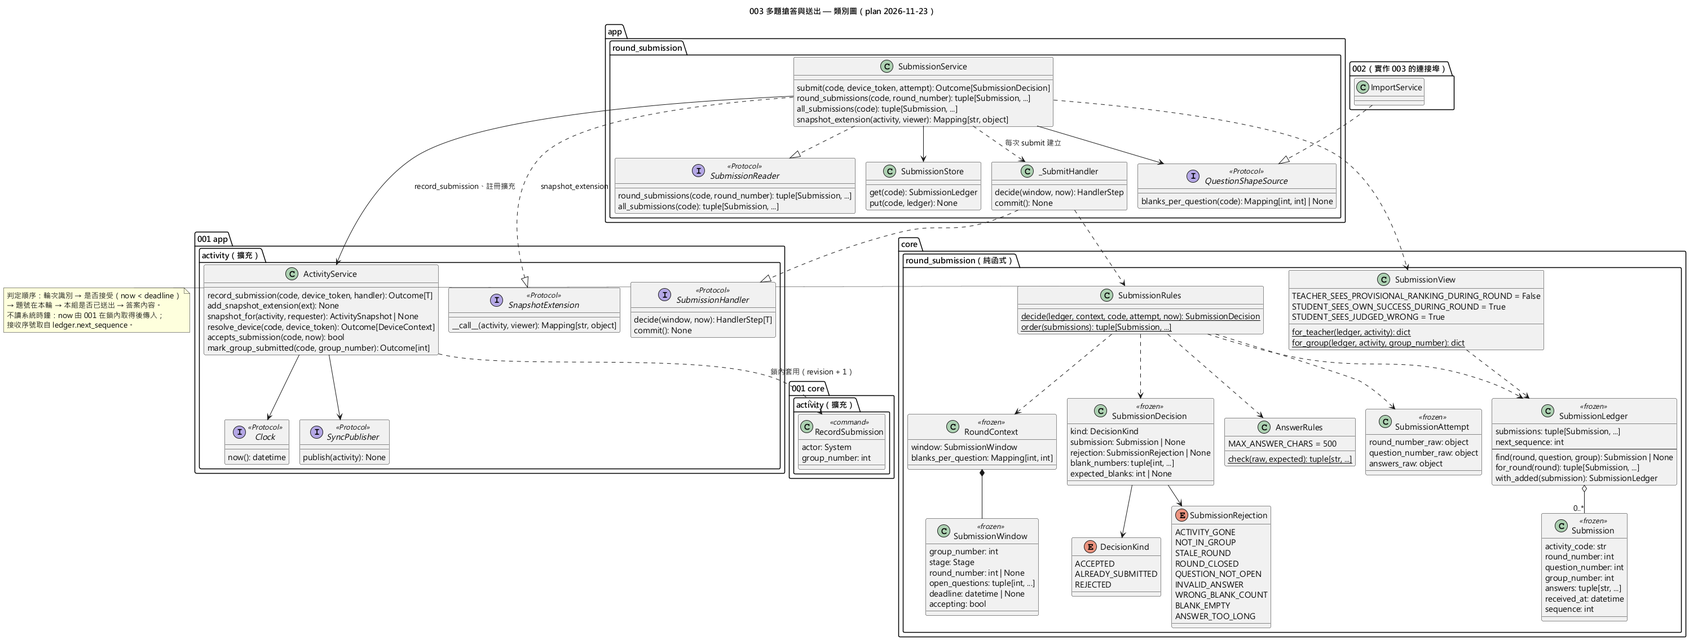
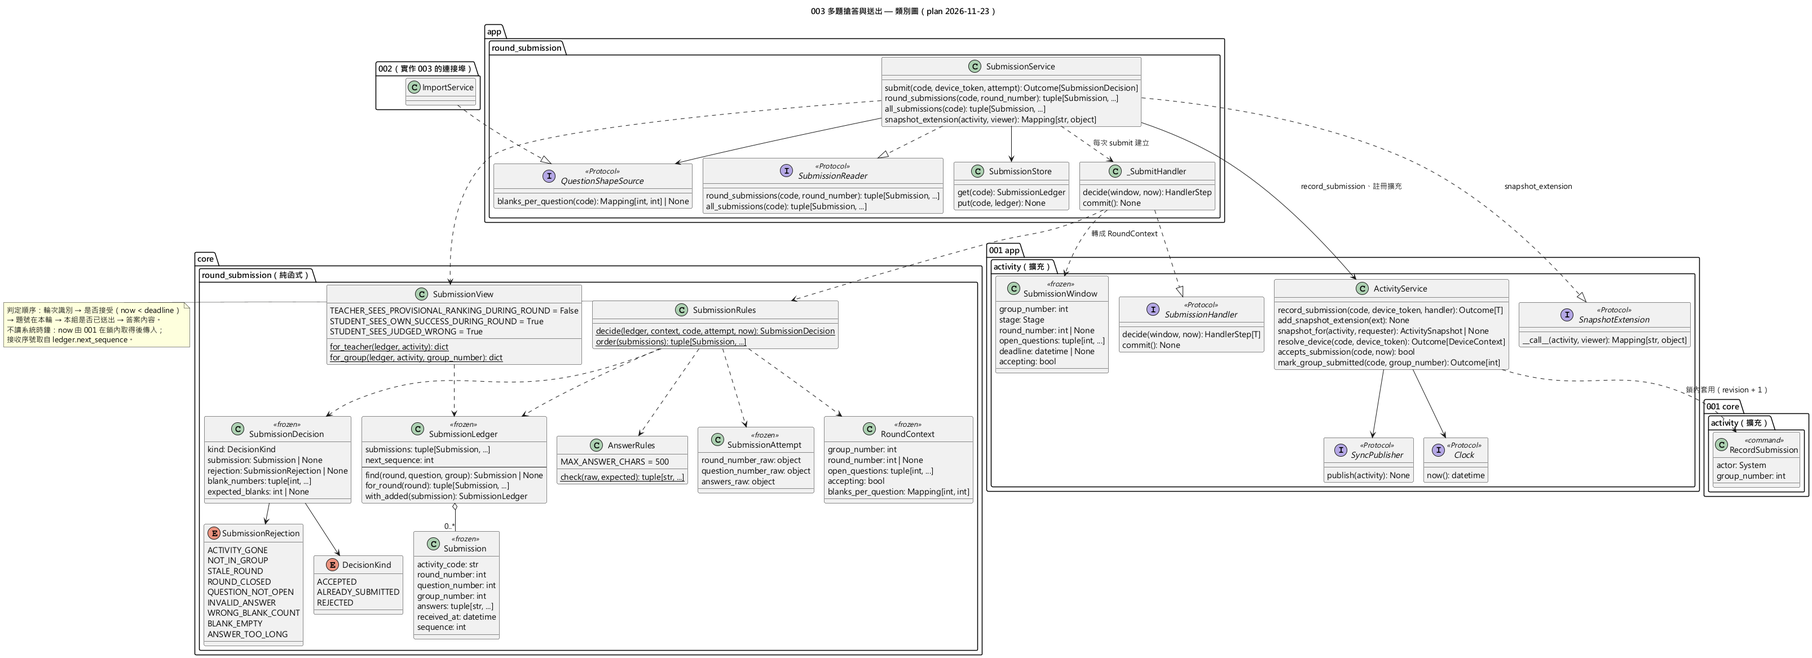
docs: 003 tasks（66 項），並把 SubmissionWindow 移到 001 ports、提交本文改為忽略多餘欄位

diff --git a/specs/003-round-submission/tasks.md b/specs/003-round-submission/tasks.md
@@ -1,0 +1,306 @@
+---
+
+description: "003-round-submission 任務清單"
+---
+
+# Tasks: 多題搶答與送出
+
+**Input**: Design documents from `/specs/003-round-submission/`
+
+**Prerequisites**: [plan.md](plan.md)、[spec.md](spec.md)、[research.md](research.md)、[data-model.md](data-model.md)、[contracts/](contracts/)、[quickstart.md](quickstart.md)
+
+**Tests**: REQUIRED（憲章原則 VI）。每個 Acceptance Scenario 與對應的 OpenSpec Scenario 至少一個自動化測試；測試函式 docstring 第一行寫 `Scenario: USn-ASm`（與 001 相同慣例，供 `tests/SCENARIO_MAP.md` 掃描）。**先寫測試、執行並確認失敗，再實作**。003 不呼叫 Google。
+
+**Diagrams**: REQUIRED（憲章原則 II）。`diagrams/003-round-submission-{component,class,sequence}.puml` 與 PNG 已存在（plan 2026-11-23 版）；Polish 有一致性驗證任務。
+
+**Architecture**: REQUIRED（NON-NEGOTIABLE）。`src/lecture_quiz/core/round_submission/` 只匯入標準函式庫與 `lecture_quiz.core`，不讀時鐘；`now` 由 001 在鎖內取得後傳入，接收序號取自 `SubmissionLedger.next_sequence`。
+
+**慣例**：路徑以 repo 根目錄為準；`<core>` = `src/lecture_quiz/core/round_submission`，`<app>` = `src/lecture_quiz/app/round_submission`，`<web>` = `src/lecture_quiz/adapters/web`，`<static>` = `src/lecture_quiz/adapters/static`。每個公開類別、函式、方法都要有型別提示與 Google docstring。日誌只用 `logging`，不記 token 與答案內容。
+
+## Format: `[ID] [P?] [Story] Description`
+
+- **[P]**: 可平行（不同檔案、沒有未完成的相依）
+- **[Story]**: 所屬 User Story（US1～US6）
+
+---
+
+## Phase 1: Setup
+
+**Purpose**: 建立目錄、確認基準
+
+- [ ] T001 建立套件目錄與空的 `__init__.py`（含模組 docstring）：`<core>/__init__.py`、`<app>/__init__.py`、`tests/unit/core/round_submission/__init__.py`、`tests/unit/app/round_submission/__init__.py`
+- [ ] T002 記錄基準：在目前分支執行 `ruff check .`、`ruff format --check .`、`mypy`、`pytest`，把通過數（預期 001 合併後為 389 passed、1 deselected）寫入 `specs/003-round-submission/verification.md` 的「基準」段落，作為 Foundational 之後「001 既有測試全過」的比對依據
+- [ ] T003 [P] 在 `tests/unit/core/round_submission/helpers.py` 建立測試資料：`LAYOUT_A = {1: 2, 2: 2, 3: 1, 4: 1}`（課程範本：4 題、前兩題各兩格）、`LAYOUT_B = {1: 1, 2: 3, 3: 1, 4: 2, 5: 1}`（另一份版面：5 題、含三格題組），以及 `make_context(...)`、`make_attempt(...)`、`make_submission(...)` 工廠函式（憲章原則 III 的兩份版面）
+- [ ] T004 [P] 在 `tests/conftest.py` 新增 003 共用工具：`FakeQuestionShapeSource`（可設定每個活動代碼的格數）、`submit(client, code, device_token, round_number, question_number, answers)` 呼叫 `POST /api/activities/{code}/submissions`、`seed_questions` 增加可選參數 `blanks: list[int] | None`；在模組 docstring 的 fixture 清單補上這些項目
+
+---
+
+## Phase 2: Foundational（001 擴充、核心資料結構、組裝）
+
+**Purpose**: 研究 R1、R2、R4、R6 的基礎；完成前不能開始任何 User Story
+
+**⚠ CRITICAL**: 本階段改到已合併的 001，完成後 001 既有測試必須全部通過且不需修改
+
+### 測試（先寫、確認失敗）
+
+- [ ] T005 [P] 在 `tests/unit/core/test_state_machine_record_submission.py` 測試 001 新指令 `RecordSubmission`（與 `MarkGroupSubmitted` 相同，不檢查 actor：只由服務層以 `System()` 送出，沒有 HTTP 入口）：只在 `ROUND_OPEN` 成功，其他 6 個階段回 `STAGE_NOT_ALLOWED`；有截止時間時 `now < deadline` 成功、`now == deadline` 與之後拒絕（`STAGE_NOT_ALLOWED`），沒有截止時間時成功；組別不存在回 `GROUP_NOT_FOUND`；成功時 `has_submissions = True`，**每次都 `changed`**：第二次對同組套用 `revision` 仍加 1，`version` 與 `changed_at` 都不變（研究 R2、R5）
+- [ ] T006 [P] 在 `tests/unit/app/test_record_submission.py` 測試 `ActivityService.record_submission(code, device_token, handler)`：活動不存在回 `ACTIVITY_GONE`、token 無效回 `NOT_IN_GROUP`，兩者都不呼叫 `handler.decide`；`clock.now()` 只呼叫一次，且同一個值傳給 `decide`；`SubmissionWindow.accepting` 在搶答中且 `now < deadline`（或無截止）時為真、其他情況為假；`decide` 回 `accept` → 先套用 `RecordSubmission` 再呼叫 `commit`，`commit` 被呼叫時活動鎖仍被持有（仿 `tests/unit/app/test_idempotency_inside_lock.py` 的 LockCheckingRegistry），鎖釋放後 `publish` 恰好一次；`no_change`／`reject` → 不呼叫 `commit`、不推送、`revision` 不變；`RecordSubmission` 被拒（例如 FakeClock 讓截止時間在 window 組成後才到 —— 以 handler 內推進 FakeClock 的方式模擬不了時，直接構造截止已過的活動並讓 handler 強制回 `accept`）→ 不呼叫 `commit`，回傳拒絕
+- [ ] T007 [P] 在 `tests/unit/app/test_snapshot_extension.py` 測試快照擴充：未註冊時 `snapshot_for` 的結果與改動前完全相同；註冊後老師（`TeacherViewer`）與學生（`GroupViewer(n)`）的快照 `extra` 包含擴充回傳的欄位；擴充可覆寫 001 欄位；`snapshot()` 與 `WebSocketHub` 推送都經過擴充（以 TestClient WebSocket 收到的訊息驗證）；身分無效時仍回 `None`、不呼叫擴充
+- [ ] T008 [P] 在 `tests/unit/core/round_submission/test_models.py` 測試 `SubmissionLedger`：空 ledger `next_sequence == 1`；`with_added` 回傳新物件、原物件不變、`next_sequence + 1`；`find(round, question, group)` 找得到／找不到；`for_round` 只回該輪；所有型別 frozen（指定屬性拋 `FrozenInstanceError`）
+- [ ] T009 [P] 在 `tests/unit/app/round_submission/test_store.py` 測試 `SubmissionStore`：未知代碼回空 ledger；`put` 後 `get` 取回同一物件；不同活動互不影響
+
+### 001 擴充實作
+
+- [ ] T010 在 `src/lecture_quiz/core/activity/commands.py` 新增 `RecordSubmission(actor: Actor, group_number: int)`（docstring 說明只給 003、每次都算變更），加入 `Command` 聯集；在 `src/lecture_quiz/core/activity/state_machine.py` 新增 `_record_submission`：允許階段 `frozenset({Stage.ROUND_OPEN})`、有截止時間時 `ActivityStateMachine.is_deadline_passed(current, now)` 為真就拒絕（`STAGE_NOT_ALLOWED`）、組別不存在 `GROUP_NOT_FOUND`、否則 `has_submissions = True` 並一律回 `_changed`；在 `describe_rejection` 若需要補 `RecordSubmission` 的訊息。不改 `MarkGroupSubmitted`（依賴 T005）
+- [ ] T011 在 `src/lecture_quiz/app/activity/ports.py` 新增：`SubmissionWindow`（frozen：`group_number: int`、`stage: Stage`、`round_number: int | None`、`open_questions: tuple[int, ...]`、`deadline: datetime | None`、`accepting: bool`）；`HandlerStep[T]`（`kind: Literal["accept", "no_change", "reject"]`、`value: T | None`、`rejection: str | None`、`message: str`，附 `accept()`／`no_change()`／`reject()` 建構函式）；`SubmissionHandler[T]` Protocol（`decide(window, now) -> HandlerStep[T]`、`commit() -> None`）；`TeacherViewer`、`GroupViewer(group_number)`、`Viewer` 聯集；`SnapshotExtension` Protocol（`__call__(activity, viewer) -> Mapping[str, object]`）。`Outcome.rejection` 型別放寬為 `RejectionReason | str | None`，讓 003 的拒絕碼可以沿用 `Outcome`（mypy 確認 001 既有呼叫端不受影響）
+- [ ] T012 在 `src/lecture_quiz/app/activity/service.py` 實作 `record_submission(code, device_token, handler)`（研究 R2 步驟 1～7；鎖內順序：找裝置 → `now = self._clock.now()` → 組 `SubmissionWindow` → `handler.decide` → `accept` 時以 `ActivityStateMachine.apply(activity, RecordSubmission(System(), group), now, None)` 套用並 `registry.put` → `handler.commit()`；鎖外 `_publish`）、`add_snapshot_extension(ext)`，並把 `snapshot_for` 改為實例方法（先呼叫 `SnapshotView`，再依序併入擴充欄位）；同步修改 `snapshot()` 與所有呼叫點（依賴 T010、T011）
+- [ ] T013 在 `src/lecture_quiz/adapters/web/ws_sync.py` 的 `_push` 改為 `self._service.snapshot_for(activity, conn.requester)`（`_service` 為 `None` 時直接 return 並記 WARNING）（依賴 T012）
+- [ ] T014 執行 `pytest`：T005～T007 通過，001 既有測試**不修改**全部通過；把結果數字補進 `verification.md`。若有 001 測試因 `snapshot_for` 改為實例方法而失敗，只調整呼叫方式，不得改斷言，並在 verification.md 列出
+
+### 003 核心資料結構與應用層骨架
+
+- [ ] T015 [P] 在 `<core>/models.py` 建立 frozen 型別（欄位照 data-model.md）：`Submission(activity_code, round_number, question_number, group_number, answers: tuple[str, ...], received_at: datetime, sequence: int)`、`SubmissionAttempt(round_number_raw: object, question_number_raw: object, answers_raw: object)`、`RoundContext(group_number, round_number: int | None, open_questions: tuple[int, ...], accepting: bool, blanks_per_question: Mapping[int, int])`（`blanks_per_question` 以 `MappingProxyType` 凍結）、`SubmissionLedger(submissions: tuple[Submission, ...] = (), next_sequence: int = 1)` 與 `find`／`for_round`／`with_added`（依賴 T008）
+- [ ] T016 [P] 在 `<core>/rules.py` 先建立 `DecisionKind`（`ACCEPTED`、`ALREADY_SUBMITTED`、`REJECTED`）、`SubmissionRejection`（`StrEnum`：`ACTIVITY_GONE`、`NOT_IN_GROUP`、`STALE_ROUND`、`ROUND_CLOSED`、`QUESTION_NOT_OPEN`、`INVALID_ANSWER`、`WRONG_BLANK_COUNT`、`BLANK_EMPTY`、`ANSWER_TOO_LONG`，各自的 `http_status` 依 data-model.md「判定順序」表：410、403、409、409、400、400、400、400、400）、`SubmissionDecision(kind, submission, rejection, blank_numbers: tuple[int, ...] = (), expected_blanks: int | None = None)`；`decide` 先留 `NotImplementedError`（US1 起逐步完成）
+- [ ] T017 [P] 在 `<app>/ports.py` 定義 `QuestionShapeSource`（`blanks_per_question(code) -> Mapping[int, int] | None`）與 `SubmissionReader`（`round_submissions(code, round_number)`、`all_submissions(code)`）Protocol，以及 `NullQuestionShapeSource`（一律回 `None`；002 合併前、非 dev seed 時使用）；在 `<app>/store.py` 實作 `SubmissionStore`（依賴 T009、T015）
+- [ ] T018 擴充 dev seed（研究 R6）：`<web>/dev_seed.py` 的 `SeedBody` 新增可選 `blanks: list[StrictInt] | None`（長度必須等於 `count`，每個值 1～10，否則 400 `INVALID_REQUEST`）；新增 `DevQuestionShapeSource`（記憶體 dict：代碼 → 題號 → 格數；沒給 `blanks` 時每題 1 格），seed 成功後寫入；在 `tests/integration/test_dev_seed.py` 補測試：有／沒有 `blanks`、長度不符、值超出範圍。檔頭註解註明 002 合併後連同 `DevQuestionShapeSource` 一起移除
+- [ ] T019 在 `<app>/service.py` 建立 `SubmissionService.__init__(activity_service, store, shapes: QuestionShapeSource)`：建構時呼叫 `activity_service.add_snapshot_extension(self.snapshot_extension)`；`snapshot_extension` 先回傳空 dict（US4、US5 完成）；在 `src/lecture_quiz/main.py` 組裝：`app.state.question_shape_source` 在 dev seed 啟用時為 `DevQuestionShapeSource`，否則 `NullQuestionShapeSource`；建立 `app.state.submission_service`；在「子功能 router」區塊加 `api.include_router(submission_api.create_router(app))  # 003`（`<web>/submission_api.py` 先建立空 router）（依賴 T012、T017、T018）
+
+**Checkpoint**: 001 擴充完成且 001 測試全過；003 骨架可匯入；`tests/architecture/test_core_is_pure.py` 自動涵蓋 `<core>`
+
+---
+
+## Phase 3: User Story 1 - 學生依任意順序完整提交本輪題目 (Priority: P1) 🎯 MVP
+
+**Goal**: 本輪開放題可依任意順序送出，題組必須填滿所有子空格，無效提交整筆拒絕且不消耗機會
+
+**Independent Test**: 以 LAYOUT_A 建活動、一組加入、開輪，先送題 2 再送題 1；送一筆少一格的題組；檢查接受、拒絕與剩餘機會
+
+### Tests for User Story 1（先寫、確認失敗）⚠
+
+- [ ] T020 [P] [US1] 在 `tests/unit/core/round_submission/test_answer_rules.py` 測試 `AnswerRules.check(raw, expected)`（Q-20 提議）：格數不符 → `WRONG_BLANK_COUNT` 且 `expected_blanks == expected`（`Scenario: US1-AS4` ↔ OpenSpec「題組少一格」）；任一格 `strip()` 後為空（含半形空白、全形空白 U+3000、Tab、`\n`）→ `BLANK_EMPTY` 並列出**全部**空格格號（`Scenario: US1-AS3`、`Scenario: US1-AS6`）；`answers_raw` 不是 list、元素不是 str → `INVALID_ANSWER`；恰好 500 字通過、501 字 → `ANSWER_TOO_LONG` 並列出格號；同時有空格與超長時回 `BLANK_EMPTY`；通過時回傳**原文**（保留首尾空白與換行）；`MAX_ANSWER_CHARS == 500` 為模組常數
+- [ ] T021 [P] [US1] 在 `tests/unit/core/round_submission/test_decide_us1.py` 測試 `SubmissionRules.decide`：LAYOUT_A 開放題 1、2，先送題 2 再送題 1 都 `ACCEPTED`，序號 1、2（`Scenario: US1-AS1` ↔ OpenSpec「不同順序作答」）；只送其中兩題，其餘仍可送（`Scenario: US1-AS2`）；送本輪未開放的題 3 與不存在的題 99 → `QUESTION_NOT_OPEN`，ledger 不變（`Scenario: US1-AS5`）；題號不是整數 → `QUESTION_NOT_OPEN`；被拒後同題再送完整答案 → `ACCEPTED`（不消耗機會，FR-005）；內容明顯錯誤但非空 → `ACCEPTED` 且原文保存（`Scenario: US1-AS7`）；LAYOUT_B 題 2 需要 3 格：送 2 格 → `WRONG_BLANK_COUNT`、送 3 格 → `ACCEPTED`（原則 III、SC-009）；開放題查不到格數 → `QUESTION_NOT_OPEN`
+- [ ] T022 [P] [US1] 在 `tests/unit/app/round_submission/test_submit_us1.py` 以真的 `ActivityService` + `FakeClock` + `FakeQuestionShapeSource` 測試 `SubmissionService.submit`：接受後 store 有該筆、`received_at == fake_clock.now()`、老師快照 `revision` 加 1、`version` 不變；被拒時 store、`next_sequence`、`revision`、`version` 都不變且沒有推送（FR-005）
+- [ ] T023 [P] [US1] 在 `tests/contract/test_http_submissions.py` 測試 `POST /api/activities/{code}/submissions`：接受回 `201 {"result": "accepted", "submission": {roundNumber, questionNumber, groupNumber, answers, receivedAt}}`，回應不含 `sequence`；`WRONG_BLANK_COUNT`／`BLANK_EMPTY`／`ANSWER_TOO_LONG`／`QUESTION_NOT_OPEN`／`INVALID_ANSWER` 回 400 與 `{"error": {"code", "message"}}`，訊息分別含「需要 k 格」「第 i 格尚未填寫」「第 i 格超過 500 字」「不在本輪」；本文不是 JSON 物件或缺欄位 → 400 `INVALID_REQUEST`；錯誤回應不含 token、`Traceback`、檔案路徑（FR-034、SC-007）
+
+### Implementation for User Story 1
+
+- [ ] T024 [US1] 在 `<core>/answer_rules.py` 實作 `MAX_ANSWER_CHARS = 500` 與 `AnswerRules.check(raw, expected) -> tuple[str, ...]`，失敗時拋 `InvalidAnswerError(rejection, blank_numbers, expected_blanks)`（規則照 T020 與 research R8；docstring 註明 Q-20 為 SpecKit 組提議、待 OpenSpec 確認）（依賴 T020）
+- [ ] T025 [US1] 在 `<core>/rules.py` 實作 `SubmissionRules.decide(ledger, context, code, attempt, now)` 的步驟 3（題號）、5（`AnswerRules`）、6（接受：`Submission(..., received_at=now, sequence=ledger.next_sequence)`）；步驟 1、2、4 先以「一律通過」的位置保留並加 `# US2／US3 完成` 註解（依賴 T021、T024）
+- [ ] T026 [US1] 在 `<app>/service.py` 實作 `submit(code, device_token, attempt) -> Outcome[SubmissionDecision]`：建立 `_SubmitHandler`（`decide`：讀 `store.get(code)`、以 `shapes.blanks_per_question(code)` 與 window 組 `RoundContext`、呼叫 `SubmissionRules.decide`、把結果轉成 `HandlerStep`；`commit`：`store.put(code, ledger.with_added(sub))`），呼叫 `activity_service.record_submission`；把 001 的 `ACTIVITY_GONE`／`NOT_IN_GROUP` 轉成 `SubmissionRejection` 同名值；INFO 日誌 `activity round question group result`，不含 token 與答案（研究 R13）（依賴 T022、T025）
+- [ ] T027 [US1] 在 `<web>/submission_api.py` 實作 `POST /activities/{code}/submissions`：pydantic 本文 `SubmitBody`（`model_config = ConfigDict(extra="ignore")`；`roundNumber`、`questionNumber`、`answers` 型別為 `object`，原樣交給核心）；以 001 `http_api` 的 `Token` 依賴取得 bearer token；接受回 201、拒絕以 `ApiError(status, code, message)` 拋出；`annotate_request_log(request, result=...)`（依賴 T023、T026）
+- [ ] T028 [US1] 前端作答表單：新增 `<static>/js/submission.js`，匯出 `renderAnswerForm(container, questionNumber, blanks, onSubmit)`（每格一個 `<textarea>`、標示「第 i 格」、`maxlength=500` 只是提示）、`describeSubmitError(error)`；`<static>/js/student.js` 在 `ROUND_OPEN` 時依快照的 `openQuestions` 與 `questionShapes` 畫出每題表單，送出時呼叫 `api.js` 的 POST；**一律用 `textContent`／`createElement`，不得使用 `innerHTML`**；`<static>/student.html` 加作答區塊容器。以 `node --check` 檢查語法
+
+**Checkpoint**: 學生可依任意順序送出完整答案，無效提交被拒且不消耗機會
+
+---
+
+## Phase 4: User Story 2 - 每組每題每輪只算第一筆 (Priority: P1)
+
+**Goal**: 同組多裝置、重送都只保存第一筆；下一輪同題重新給機會
+
+**Independent Test**: 同組兩裝置同時送同題；接受後重送；定案後下一輪再送同題
+
+### Tests for User Story 2（先寫、確認失敗）⚠
+
+- [ ] T029 [P] [US2] 在 `tests/unit/core/round_submission/test_decide_us2.py` 測試：本組本輪本題已有提交時，不論內容是否有效都回 `ALREADY_SUBMITTED` 並附既有提交、ledger 不變（`Scenario: US2-AS4`）；先無效被拒、再有效 → `ACCEPTED`（`Scenario: US2-AS5`）；第 1 輪已提交題 1、第 2 輪題 1 再開 → `ACCEPTED`，第 1 輪紀錄不變（`Scenario: US2-AS3` ↔ OpenSpec「下一輪重新作答」）；他組同題不受影響
+- [ ] T030 [P] [US2] 在 `tests/unit/app/round_submission/test_submit_concurrency.py` 測試：同組兩台裝置以 `asyncio.gather` 同時送同題不同答案，重複 50 次（每次新活動），每次 store 只有 1 筆、另一個結果為 `ALREADY_SUBMITTED` 且附的答案等於被保存的那筆（`Scenario: US2-AS1` ↔ OpenSpec「同組兩裝置競爭」；SC-002）；接受後以相同與不同內容各重送 10 次，筆數維持 1、回傳的 `received_at` 與 `sequence` 與原提交相同（`Scenario: US2-AS2` ↔ OpenSpec「回應遺失後重送」；SC-003）
+- [ ] T031 [P] [US2] 在 `tests/integration/test_us2_submission_once.py` 測試：HTTP 重送回 `200 {"result": "alreadySubmitted", "submission": 原提交}`；同組另一台裝置的 WebSocket 收到含該答案的快照（`Scenario: US2-AS1`）；第 1 輪提交後關輪、定案、該學生離開本組並加入另一組 → 第 1 輪公開資料中該提交仍屬原組（`Scenario: US2-AS6`）；老師刪除有提交的組 → `409 GROUP_HAS_SUBMISSIONS`，搶答中刪除任何組 → `409`（001 拒絕），提交紀錄不變（`Scenario: US2-AS7`）
+
+### Implementation for User Story 2
+
+- [ ] T032 [US2] 在 `<core>/rules.py` 完成 `decide` 步驟 4：`ledger.find(round, question, group)` 存在時回 `ALREADY_SUBMITTED`（位置在題號檢查之後、內容檢查之前，研究 R10）（依賴 T029）
+- [ ] T033 [US2] 在 `<app>/service.py` 的 handler 對 `ALREADY_SUBMITTED` 回 `HandlerStep.no_change(decision)`；`<web>/submission_api.py` 對它回 `200 {"result": "alreadySubmitted", ...}`；日誌 `result=alreadySubmitted`（依賴 T030、T031、T032）
+- [ ] T034 [US2] 前端：`<static>/js/submission.js` 對 `alreadySubmitted` 顯示「本組已送出」與既有答案（`textContent`），該題表單改為唯讀；`student.js` 收到快照中本組已送出的題目時同樣改為唯讀並顯示答案
+
+**Checkpoint**: 每組每題每輪只有一筆
+
+---
+
+## Phase 5: User Story 3 - 截止與接收順序由後端決定 (Priority: P1)
+
+**Goal**: 嚴格早於截止才接受；關輪後拒絕；舊輪次拒絕；接收時間與序號由後端產生，排序確定
+
+**Independent Test**: FakeClock 控制截止邊界；關輪後送；舊輪次送；同時間戳兩組排序；關輪與提交競態
+
+### Tests for User Story 3（先寫、確認失敗）⚠
+
+- [ ] T035 [P] [US3] 在 `tests/unit/core/round_submission/test_decide_us3.py` 測試：`round_number_raw` 不等於目前輪次、不是整數、或目前沒有輪次 → `STALE_ROUND`（`Scenario: US3-AS4` ↔ OpenSpec「舊輪次頁面提交」）；輪次相符但 `accepting` 為假 → `ROUND_CLOSED`（`Scenario: US3-AS2`、`Scenario: US3-AS3`）；`STALE_ROUND` 優先於 `ROUND_CLOSED`、`ROUND_CLOSED` 優先於題號與內容檢查；`SubmissionRules.order` 對相同 `received_at` 依 `sequence` 排序，輸入順序打亂結果相同（`Scenario: US3-AS5` ↔ OpenSpec「同時間戳」）
+- [ ] T036 [P] [US3] 在 `tests/unit/app/round_submission/test_submit_deadline.py` 以 FakeClock 測試：開輪 60 秒，`deadline - 1ms` 接受、`deadline` 與 `deadline + 1ms` 回 `ROUND_CLOSED` 且不保存（`Scenario: US3-AS1`、`Scenario: US3-AS2` ↔ OpenSpec「截止邊界」；SC-004）；無倒數輪次在老師關輪前一直接受、關輪後 `ROUND_CLOSED`（`Scenario: US3-AS3`）；接收序號跨輪持續遞增、被拒不消耗序號（FR-016）；`received_at` 等於鎖內取得的 `now`
+- [ ] T037 [P] [US3] 在 `tests/unit/app/round_submission/test_close_vs_submit.py` 測試關輪與提交以 `asyncio.gather` 同時執行 50 次：每次要嘛提交被保存且關輪後的公開資料包含它，要嘛提交回 `ROUND_CLOSED` 且未保存；不存在「關輪後才保存」的提交（以 store 中每筆的 `received_at < 關輪時間` 且關輪後推送的快照已包含全部保存的提交檢查）（`Scenario: US3-AS6`；FR-019、SC-004）
+- [ ] T038 [P] [US3] 在 `tests/contract/test_http_submissions.py` 補：本文多帶 `clientTime`、`receivedAt`、`groupNumber` 欄位時被忽略，`receivedAt` 仍為後端時間、`groupNumber` 仍為 token 所屬組（`Scenario: US3-AS7`）；`STALE_ROUND`、`ROUND_CLOSED` 回 409 且訊息分別含「輪次已更新，請重新整理」「本輪已結束」
+
+### Implementation for User Story 3
+
+- [ ] T039 [US3] 在 `<core>/rules.py` 完成 `decide` 步驟 1（`STALE_ROUND`）與 2（`ROUND_CLOSED`），以及 `SubmissionRules.order(submissions)`（以 `(received_at, sequence)` 排序）；移除 T025 留下的「一律通過」註解（依賴 T035）
+- [ ] T040 [US3] 確認 `<app>/service.py` 把 `SubmissionWindow.round_number`、`accepting` 正確轉進 `RoundContext`；`SubmissionReader.round_submissions`／`all_submissions` 以 `order` 回傳排序結果（依賴 T036、T037、T039）
+- [ ] T041 [US3] 前端：`submission.js` 對 `STALE_ROUND` 顯示「輪次已更新，請重新整理後再作答」並提供重新整理按鈕，對 `ROUND_CLOSED` 顯示「本輪已結束」並停用全部表單
+
+**Checkpoint**: 截止、關輪、舊輪次與排序都由後端一致判定
+
+---
+
+## Phase 6: User Story 4 - 搶答中只看得到自己組，老師看得到全部 (Priority: P1)
+
+**Goal**: 學生快照只含本組；他組提交不推送給本組；老師看板即時顯示全部與送出先後
+
+**Independent Test**: 甲、乙各提交後，檢查甲組所有可取得的回應與推送，以及老師看板
+
+### Tests for User Story 4（先寫、確認失敗）⚠
+
+- [ ] T042 [P] [US4] 在 `tests/unit/core/round_submission/test_view_open_round.py` 測試 `SubmissionView`：本輪開放中 `for_group(ledger, activity, 1)` 的 `submissions.current` 只有 `own`（甲組的題號、答案、接收時間），整份序列化結果中找不到乙組組號、答案、時間、提交數或 `order`（`Scenario: US4-AS1` ↔ OpenSpec「檢查學生資料回應」、`Scenario: US4-AS3`）；`questionShapes` 只含本輪開放題；`for_teacher` 每題列出全部已送組、依排序鍵給 `order`（1 起算），沒有任何 `rank`／暫定勝者欄位（`Scenario: US4-AS5`；`TEACHER_SEES_PROVISIONAL_RANKING_DURING_ROUND = False`）；可見性常數 `TEACHER_SEES_PROVISIONAL_RANKING_DURING_ROUND = False`、`STUDENT_SEES_OWN_SUCCESS_DURING_ROUND = True`、`STUDENT_SEES_JUDGED_WRONG = True` 集中在 `<core>/view.py` 頂端
+- [ ] T043 [P] [US4] 在 `tests/integration/test_submission_visibility.py` 測試：搶答中乙組提交後，甲組 WebSocket 在 1 秒內沒有收到任何訊息（ping 除外），甲組 `GET /snapshot` 的 `version` 與 `changedAt` 不變、內容找不到乙組資料（`Scenario: US4-AS2` ↔ OpenSpec「檢查學生資料回應」；FR-022、SC-005，仿 `tests/integration/test_fr030_student_push.py`）；甲組快照 `ownGroup.successCount` 照 001 可見（Q-22）；不存在可依組號查詢提交的端點（`GET /api/activities/{code}/submissions`、`GET .../groups/2/submissions` 回 404 或 405）；老師 WebSocket 在提交後收到含該組答案與 `order` 的快照（`Scenario: US4-AS4` ↔ OpenSpec「老師即時看板」）；甲組裝置 A 提交後裝置 B 收到含本組答案的快照（`Scenario: US4-AS6`）
+
+### Implementation for User Story 4
+
+- [ ] T044 [US4] 在 `<core>/view.py` 實作可見性常數與 `SubmissionView.for_teacher(ledger, activity) -> dict`、`for_group(ledger, activity, group_number) -> dict` 的「本輪開放中」部分（JSON 形狀照 `contracts/sync-websocket.md`；時間以 ISO 8601 毫秒輸出）；`STUDENT_SEES_OWN_SUCCESS_DURING_ROUND` 為 `False` 時回傳覆寫 `ownGroup.successCount = None` 的欄位（目前為 `True`，不覆寫）（依賴 T042）
+- [ ] T045 [US4] 在 `<app>/service.py` 實作 `snapshot_extension(activity, viewer)`：依 viewer 呼叫 `SubmissionView`，併入 `questionShapes`（老師：全部題；學生：本輪開放題）與 `submissions`（依賴 T043、T044）
+- [ ] T046 [US4] 前端：`submission.js` 新增 `renderOwnSubmissions(container, current)` 與 `renderBoard(container, current, groups, questionShapes)`（題 × 組表格：已送出顯示答案、接收時間與送出先後；未送出顯示「尚未送出」；全部 `textContent`）；`teacher.js` 在快照更新時呼叫 `renderBoard`；`student.js` 呼叫 `renderOwnSubmissions`；`teacher.html` 加看板容器
+
+**Checkpoint**: 搶答中可見性正確，老師看板即時更新
+
+---
+
+## Phase 7: User Story 5 - 關輪後公開本輪提交，歷史可查但不洩漏新輪 (Priority: P2)
+
+**Goal**: 關輪後所有人看得到本輪全部提交與先後，無人提交顯示未成功；新一輪仍保密；頁面不被舊版本覆蓋
+
+**Independent Test**: 第 1 輪兩組提交後關輪；定案、開第 2 輪、乙組提交，檢查甲組可見範圍
+
+### Tests for User Story 5（先寫、確認失敗）⚠
+
+- [ ] T047 [P] [US5] 在 `tests/unit/core/round_submission/test_view_published.py` 測試：關輪（`RESULT_PENDING`）後 `for_group` 的 `published` 包含本輪全部組的提交、答案、`order`（`Scenario: US5-AS1` ↔ OpenSpec「結果公布與後續輪次」）；無人提交的題 `noSubmission: true`（`Scenario: US5-AS2`）；每筆有 `judgedWrong: false`，且 `STUDENT_SEES_JUDGED_WRONG` 為真時學生版也有此欄位（`Scenario: US5-AS5`；Q-26）；第 2 輪開放中，甲組的 `published` 有第 1 輪全部資料、`current` 只有甲組自己的第 2 輪提交（`Scenario: US5-AS3`）
+- [ ] T048 [P] [US5] 在 `tests/integration/test_us5_published.py` 測試：關輪後所有學生 WebSocket 收到 `version + 1` 的快照且含公開提交（`Scenario: US5-AS1`）；第 2 輪中乙組提交時甲組收不到訊息、甲組快照仍有第 1 輪公開資料（`Scenario: US5-AS3`）；關輪後的快照 `version` 嚴格大於搶答中的快照，前端 `sync.js` 依 001 規則丟棄較舊版本（`Scenario: US5-AS4` ↔ OpenSpec「延遲回應」；版本遞增在此驗證，前端丟棄行為沿用 001 測試與 quickstart 第 12 步）；`SubmissionReader.round_submissions` 與 `all_submissions` 回傳排序後的不可變 tuple（FR-036）
+
+### Implementation for User Story 5
+
+- [ ] T049 [US5] 在 `<core>/view.py` 實作「已公開輪次」部分（研究 R11：輪次編號小於目前輪次，或等於目前輪次且階段不是 `ROUND_OPEN`）：`published` 依輪次遞增，每題含 `noSubmission`、`entries`（`groupNumber`、`answers`、`receivedAt`、`order`、`judgedWrong`）；`current` 在本輪已關閉時為 `None`（依賴 T047）
+- [ ] T050 [US5] 在 `<app>/service.py` 完成 `round_submissions`、`all_submissions`（`SubmissionReader`，給 004、005），擴充函式輸出 `published`（依賴 T048、T049）
+- [ ] T051 [US5] 前端：`submission.js` 新增 `renderPublished(container, published)`（每輪每題列出各組答案與先後，`noSubmission` 顯示「未成功」，`judgedWrong` 顯示「判錯」標記，全部 `textContent`）；老師頁與學生頁在 `RESULT_PENDING`／`RESULT_FINAL`／`ENDED` 與之後的輪次都顯示歷史
+
+**Checkpoint**: 公開與歷史正確，新輪保密
+
+---
+
+## Phase 8: User Story 6 - 倒數、文字安全與送出狀態清楚可靠 (Priority: P2)
+
+**Goal**: 倒數依後端截止時間；無倒數顯示「由老師結束」；答案以純文字顯示；未確認不顯示成功
+
+**Independent Test**: 含標記的答案、無倒數輪次、送出時斷線
+
+### Tests for User Story 6（先寫、確認失敗）⚠
+
+- [ ] T052 [P] [US6] 在 `tests/integration/test_us6_safe_display.py` 測試：答案 `<b>粗體</b><script>alert(1)</script>` 被接受，老師與學生快照、HTTP 回應中的答案字串與送出原文完全相同（`Scenario: US6-AS1` ↔ OpenSpec「特殊文字答案」；後端不轉義、不過濾，安全由前端 `textContent` 負責）；無倒數輪次的快照 `deadline` 為 `null`，老師關輪前任何時間（FakeClock 推進 1 小時）都接受提交（`Scenario: US6-AS3` ↔ OpenSpec「無倒數輪次」）；有倒數輪次的快照帶後端 `deadline`（`Scenario: US6-AS2`）
+- [ ] T053 [P] [US6] 在 `tests/architecture/test_static_text_safety.py` 靜態檢查：`<static>/js/submission.js`、`student.js`、`teacher.js` 不含 `innerHTML`、`outerHTML`、`insertAdjacentHTML`、`document.write`（`Scenario: US6-AS1`；FR-031、SC-008）；`submission.js` 只有在 `response.ok` 分支呼叫顯示「已送出」的函式（以字串規則檢查 `已送出` 文字只出現在成功處理函式內）（`Scenario: US6-AS4`；FR-032）
+
+### Implementation for User Story 6
+
+- [ ] T054 [US6] 前端倒數與送出狀態：`student.js` 以 001 `countdown.js` 依快照 `deadline` 顯示倒數，`deadline` 為 `null` 時顯示「由老師結束」，歸零時停用所有作答表單（`Scenario: US6-AS2`、`Scenario: US6-AS3`；FR-029、FR-030）；`submission.js` 送出期間停用按鈕，網路錯誤或逾時顯示「送出結果未確認，請重試」，不顯示「已送出」（`Scenario: US6-AS4`；FR-032）；同步中斷沿用 001 `sync.js` 的「同步中斷」提示，恢復後取得完整快照即顯示最新本組提交（`Scenario: US6-AS5`；FR-033）（依賴 T053）
+- [ ] T055 [US6] 執行 `node --check` 檢查 `submission.js`、`student.js`、`teacher.js`；T052、T053 通過
+
+**Checkpoint**: 六個 User Story 都可獨立運作
+
+---
+
+## Phase 9: Polish & Cross-Cutting Concerns
+
+- [ ] T056 [P] 效能：在 `tests/perf/test_submission_latency.py`（`@pytest.mark.perf`）建立老師 + 6 組、每組 2 條 WebSocket 連線，連續 20 次有效提交，量測「HTTP 接受 → 老師收到含該提交的快照」與「→ 同組另一台收到」的延遲，最大值都 < 2000 ms，並輸出最大值（SC-006；沿用 001 `tests/perf/test_sync_latency.py` 的寫法）
+- [ ] T057 [P] 日誌：在 `tests/integration/test_submission_logging.py` 以 `caplog` 驗證接受、已送出、各種拒絕時的日誌含 `activity`、`round`、`question`、`group`、`result`，**不含**裝置 token、答案內容（以獨特字串如 `SECRET-ANSWER-字串` 檢查）、`Traceback`（FR-035、研究 R13）
+- [ ] T058 [P] 兩份版面：在 `tests/integration/test_two_layouts.py` 以 dev seed 的 `blanks` 分別建立 LAYOUT_A（`[2,2,1,1]`）與 LAYOUT_B（`[1,3,1,2,1]`）兩個活動，各自完成「格數錯誤被拒 → 正確格數接受 → 關輪公開」一次（憲章原則 III、SC-009）
+- [ ] T059 更新 `tests/SCENARIO_MAP.md`：標題改為涵蓋 001 與 003，以 docstring `Scenario:` 掃描產生 003 的 US1-AS1～US6-AS5 對照列；確認每個 Scenario（含 13 個 OpenSpec Scenario）至少一個測試，未對應者為「無」（SC-001）
+- [ ] T060 程式碼與圖表一致性驗證：逐一比對 `diagrams/003-round-submission-{component,class,sequence}.puml` 與實作（類別名稱、方法簽章、`SubmissionRejection` 值、可見性常數、`record_submission` 鎖內順序）；有差異先改圖並執行 `java -DPLANTUML_LIMIT_SIZE=16384 -jar plantuml.jar "./diagrams/003-*.puml"` 重新轉出 PNG，並目視確認圖未被截斷（憲章原則 II）
+- [ ] T061 同步文件：`specs/001-activity-session/contracts/service-interfaces.md` 的「給 003」段落補上 `record_submission`、`add_snapshot_extension`、`snapshot_for` 改為實例方法，並註明 003 以 `record_submission` 取代直接呼叫 `mark_group_submitted`；`docs/DEVELOPMENT.md` 子功能擴充約定補「快照擴充」用法；`CLAUDE.md` 003 段落改為「已實作」
+- [ ] T062 執行 `ruff check .`、`ruff format --check .`、`mypy`、`pytest`、`pytest -m perf`，全部通過；把日期、Python 版本、指令與數字（passed／failed／deselected、perf 最大延遲）寫入 `specs/003-round-submission/verification.md`，與 T002 基準比較（憲章原則 VI、技術限制 2）
+- [ ] T063 檢查日誌與機敏資料：全文搜尋 `src/` 無 `print(`；日誌不記 token、答案；`git status` 與 `git diff --staged` 無 `.env`、憑證、`.venv`、課程說明或提案草稿（憲章技術限制 3、原則 V）
+- [ ] T064 非實作者人工驗證：EricC430 依 `quickstart.md` 17 步操作，記錄日期、操作、實際結果與通過／失敗到 `verification.md`（憲章原則 VI）
+- [ ] T065 真實路徑驗證（**002 合併後**）：002 的 `ImportService` 實作 `QuestionShapeSource` 並在 `main.py` 取代 `DevQuestionShapeSource`／`NullQuestionShapeSource`；以兩份真實 Google 學習單（版面 A：課程範本；版面 B：起始列欄不同、含三格題組）各匯入一次，完成 quickstart「真實路徑驗證」3 步，記錄到 `verification.md`（不貼試算表網址與憑證）（憲章原則 III、VI）
+- [ ] T066 OpenSpec 核對（**合併 main 前必做**）：取得 OpenSpec 組對 Q-20、Q-21、Q-22、Q-26 的回覆，更新 `docs/alignment.md`（確認人欄位）；結論不同時修改 `<core>/answer_rules.py` 或 `<core>/view.py` 的常數、spec 對應 FR、圖與測試，重跑 T062（alignment 2026-11-23「003 提交待確認事項」與「003 Q-22 提議修正」列）
+
+---
+
+## Dependencies & Execution Order
+
+### Phase Dependencies
+
+- **Setup（Phase 1）**：無相依
+- **Foundational（Phase 2）**：依賴 Setup；**擋住所有 User Story**。T005～T009 可平行；T010 → T011 → T012 → T013 → T014；T015～T018 可與 001 擴充平行；T019 依賴 T012、T017、T018
+- **US1（Phase 3）**：依賴 Foundational
+- **US2、US3（Phase 4、5）**：依賴 US1 的 `decide` 骨架（T025）與 `submit`（T026）；兩者改 `rules.py` 的不同步驟，建議依序做（同檔案）
+- **US4（Phase 6）**：依賴 US1（需要有提交）；可與 US2、US3 平行（不同檔案：`view.py`）
+- **US5（Phase 7）**：依賴 US4 的 `view.py`
+- **US6（Phase 8）**：依賴 US1、US4 的前端檔案
+- **Polish（Phase 9）**：依賴全部 User Story；T065 另外依賴 002 合併；T066 依賴 OpenSpec 回覆，且是合併 main 的前提
+
+### User Story Dependencies
+
+- US1（P1）：Foundational 之後即可開始，MVP
+- US2（P1）、US3（P1）：在 US1 的 `decide` 上補判定步驟
+- US4（P1）：在 US1 之後，與 US2／US3 平行
+- US5（P2）：在 US4 之後
+- US6（P2）：在 US1、US4 之後
+
+### Within Each User Story
+
+- 測試先寫、執行並確認失敗（在 commit 訊息或 `verification.md` 記錄失敗數）
+- core（純函式）→ app（服務）→ adapters（HTTP、前端）
+- 每個 User Story 完成後執行 `ruff check .`、`mypy`、`pytest`，勾選 tasks、commit、push
+
+### Parallel Opportunities
+
+- Phase 1：T003、T004
+- Phase 2：T005～T009（五個測試檔）；T015、T016、T017
+- 每個 User Story 的測試任務（標 [P]）
+- US2／US3 的測試可與 US4 的測試同時撰寫
+- Polish：T056、T057、T058
+
+---
+
+## Parallel Example: User Story 1
+
+```text
+# 同時寫 US1 的測試：
+Task: "T020 tests/unit/core/round_submission/test_answer_rules.py"
+Task: "T021 tests/unit/core/round_submission/test_decide_us1.py"
+Task: "T022 tests/unit/app/round_submission/test_submit_us1.py"
+Task: "T023 tests/contract/test_http_submissions.py"
+```
+
+## Parallel Example: Foundational
+
+```text
+Task: "T005 tests/unit/core/test_state_machine_record_submission.py"
+Task: "T006 tests/unit/app/test_record_submission.py"
+Task: "T007 tests/unit/app/test_snapshot_extension.py"
+Task: "T008 tests/unit/core/round_submission/test_models.py"
+Task: "T009 tests/unit/app/round_submission/test_store.py"
+```
+
+---
+
+## Implementation Strategy
+
+### MVP First（US1）
+
+1. Phase 1 Setup → Phase 2 Foundational（確認 001 測試全過）
+2. Phase 3 US1：學生可以送出完整答案
+3. **停下驗證**：US1 測試全過、dev seed 手動送出一次
+
+### Incremental Delivery
+
+1. US1 → US2（只算第一筆）→ US3（截止與順序）：提交規則完整
+2. US4（可見性與老師看板）→ US5（公開與歷史）：畫面完整
+3. US6（倒數與安全顯示）
+4. Polish：效能、日誌、兩份版面、SCENARIO_MAP、圖表一致性、人工驗證
+5. 002 合併後做 T065；OpenSpec 回覆後做 T066，才合併 main
+
+### 時程提醒
+
+內部凍結點 2026-11-29 晚上；004、005 依賴 `SubmissionReader`（T050），建議 US1～US5 優先完成並先推上 PR，讓 004 可以開始整合。
+
+---
+
+## Notes
+
+- [P] = 不同檔案且沒有未完成的相依
+- 每個 User Story 完成後勾選、commit（`feat:`／`test:`）、push
+- 不得為了讓測試通過而修改 001 既有測試的斷言（T014）
+- Q-20／21／22／26 的規則只能放在 `<core>/answer_rules.py` 與 `<core>/view.py` 的常數，方便 T066 調整

diff --git a/specs/003-round-submission/data-model.md b/specs/003-round-submission/data-model.md
@@ -10,8 +10,7 @@
 |---|---|---|
 | `Submission` | `activity_code: str`、`round_number: int`、`question_number: int`、`group_number: int`、`answers: tuple[str, ...]`、`received_at: datetime`、`sequence: int` | 一組在某一輪對某一題的第一筆有效提交。`answers[i]` 是第 i+1 格的**原文**（Q-20）。不含裝置 token。建立後不可修改 |
 | `SubmissionAttempt` | `round_number_raw: object`、`question_number_raw: object`、`answers_raw: object` | 學生送出的原始內容，由 `decide` 驗證；被拒時不保存 |
-| `SubmissionWindow` | `group_number: int`、`stage: Stage`、`round_number: int \| None`、`open_questions: tuple[int, ...]`、`deadline: datetime \| None`、`accepting: bool` | 001 在鎖內組成（研究 R2）；`accepting` = 搶答中且（無截止時間或 `now < deadline`） |
-| `RoundContext` | `window: SubmissionWindow`、`blanks_per_question: Mapping[int, int]` | `decide` 的完整輸入；格數來自 `QuestionShapeSource` |
+| `RoundContext` | `group_number: int`、`round_number: int \| None`、`open_questions: tuple[int, ...]`、`accepting: bool`、`blanks_per_question: Mapping[int, int]` | `decide` 的完整輸入；由服務層從 001 的 `SubmissionWindow` 與 `QuestionShapeSource` 組成（核心不匯入 app 層型別） |
 | `SubmissionLedger` | `submissions: tuple[Submission, ...]`、`next_sequence: int = 1` | 一個活動的全部提交；`find(round, question, group)`、`for_round(round)`、`with_added(sub)`（回傳新 ledger，`next_sequence + 1`） |
 | `DecisionKind` | `ACCEPTED`、`ALREADY_SUBMITTED`、`REJECTED` | |
 | `SubmissionRejection` | 見下表 | `StrEnum`，每個值有 HTTP 狀態碼與預設訊息 |
@@ -72,7 +71,7 @@
 |---|---|---|
 | `core/activity/commands.py` | `RecordSubmission(actor, group_number)` | 只允許 `System` |
 | `core/activity/state_machine.py` | `_record_submission` | 只在 `ROUND_OPEN`、`now < deadline`（有截止時）且組別存在時成功；設 `has_submissions = True`，**每次都算變更**（`revision + 1`；公開狀態不變，`version` 不變） |
-| `app/activity/ports.py` | `SubmissionHandler[T]`（`decide(window, now) -> HandlerStep[T]`、`commit() -> None`）、`SnapshotExtension`、`TeacherViewer`、`GroupViewer` | |
+| `app/activity/ports.py` | `SubmissionWindow`（`group_number`、`stage`、`round_number`、`open_questions`、`deadline`、`accepting`；`accepting` = 搶答中且（無截止時間或 `now < deadline`））、`HandlerStep[T]`、`SubmissionHandler[T]`（`decide(window, now) -> HandlerStep[T]`、`commit() -> None`）、`SnapshotExtension`、`TeacherViewer`、`GroupViewer` | |
 | `app/activity/service.py` | `record_submission(code, device_token, handler)`、`add_snapshot_extension(ext)`；`snapshot_for` 改為實例方法 | 見研究 R2 步驟 1～7 |
 | `adapters/web/ws_sync.py` | `_push` 改呼叫 `self._service.snapshot_for` | |
 

diff --git a/specs/003-round-submission/contracts/http-api.md b/specs/003-round-submission/contracts/http-api.md
@@ -24,7 +24,7 @@
 
 ## 規則
 
-- 本文 `extra="forbid"`：多送欄位（例如前端時間、組號）回 `400 INVALID_REQUEST`；所屬組別一律由後端依 token 判定（FR-012、FR-015）。
+- 本文多送的欄位（例如前端時間、自稱的組號）一律**忽略**（`extra="ignore"`），不影響接受與否與接收時間；所屬組別一律由後端依 token 判定（FR-012、FR-015、US3-AS7）。
 - `roundNumber`、`questionNumber`、`answers` 的型別錯誤**不**由請求格式驗證擋下，而是原樣交給核心判定（`STALE_ROUND`、`QUESTION_NOT_OPEN`、`INVALID_ANSWER`），讓訊息可修正、判定順序一致（data-model.md「判定順序」）。
 - `Idempotency-Key` 可以帶，但不需要：同組同題重送一律回 `alreadySubmitted` 與原提交（FR-010），不會產生第二筆。
 - 「本組已送出」不是錯誤：前端顯示既有答案（US2-AS1、US2-AS4）。
@@ -45,7 +45,7 @@
 | `WRONG_BLANK_COUNT` | 400 | 格數不符（訊息含需要的格數） |
 | `BLANK_EMPTY` | 400 | 有空格（訊息列出格號） |
 | `ANSWER_TOO_LONG` | 400 | 有格子超過 500 字（訊息列出格號） |
-| `INVALID_REQUEST` | 400 | 本文不是 JSON 物件或有多餘欄位 |
+| `INVALID_REQUEST` | 400 | 本文不是 JSON 物件，或缺少 `roundNumber`／`questionNumber`／`answers` 欄位 |
 
 訊息不含 token、堆疊追蹤、檔案路徑或他組資料（FR-034）。
 

diff --git a/specs/003-round-submission/research.md b/specs/003-round-submission/research.md
@@ -55,7 +55,7 @@ Technical Context 沒有 NEEDS CLARIFICATION；以下是設計決策。每項格
 
 ## R7 HTTP API 形狀
 
-- **決策**：`POST /api/activities/{code}/submissions`，`Authorization: Bearer <裝置 token>`，本文 `{"roundNumber": int, "questionNumber": int, "answers": [str, ...]}`（`extra="forbid"`，前端送的時間欄位一律不接受）。
+- **決策**：`POST /api/activities/{code}/submissions`，`Authorization: Bearer <裝置 token>`，本文 `{"roundNumber": int, "questionNumber": int, "answers": [str, ...]}`（多送的欄位一律忽略，前端時間不影響判定）。
   - 接受：`201`，`{"result": "accepted", "submission": {...}}`。
   - 本組已送出（含重送）：`200`，`{"result": "alreadySubmitted", "submission": {...既有}}`。
   - 拒絕：沿用 001 的錯誤格式（`common.py`），`error.code` 為 `SubmissionRejection` 值。
